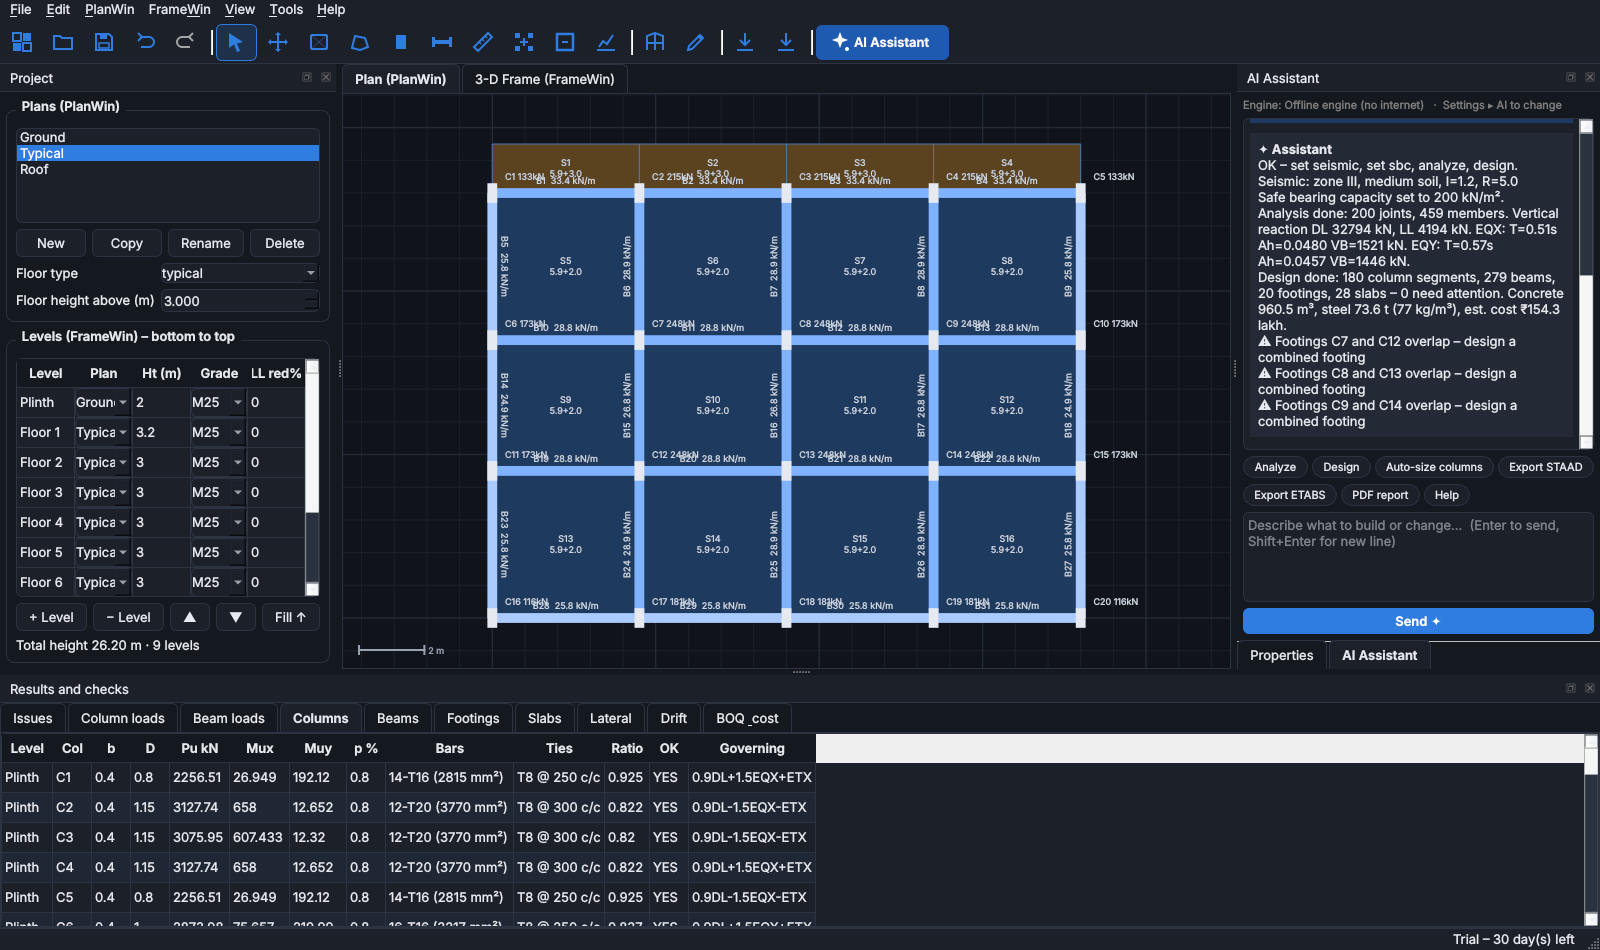
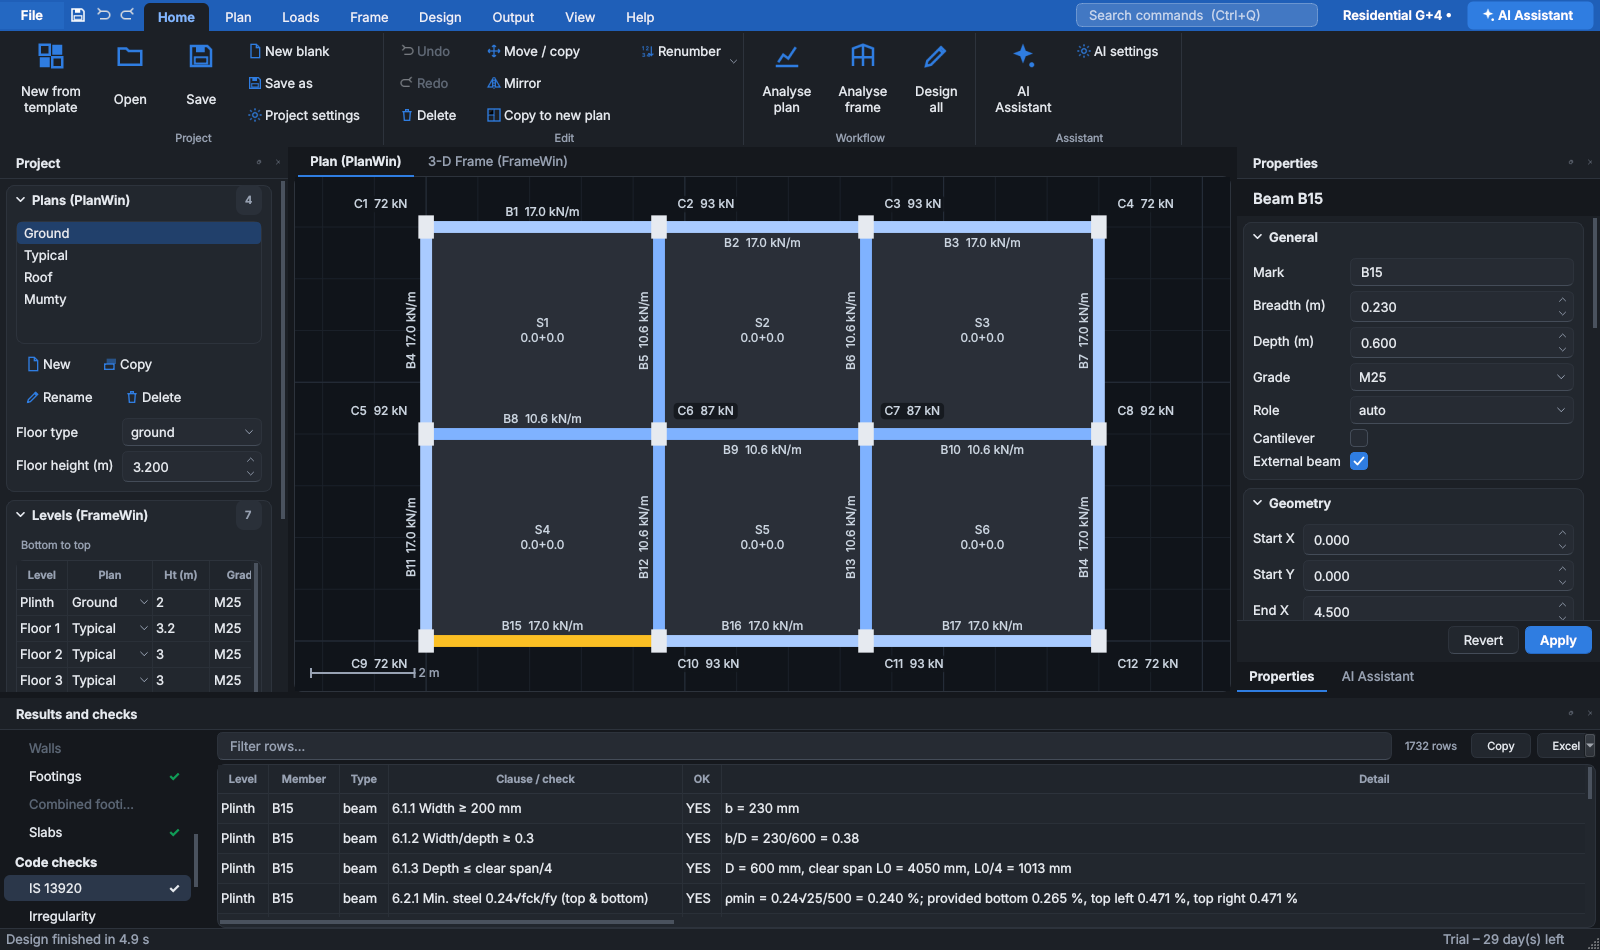
Release 1.2.0: Fluent interface, start page, command search, Excel BOQ and schedules
Also: tests delete the windows they leave behind (a later style-sheet change re-styled
every leftover window and could take minutes), and tools/screenshots.py regenerates the
README screenshots.

Claude-Session: https://claude.ai/code/session_01Mzv7HoQjApxqubjJVp7Nm8

diff --git a/tools/screenshots.py b/tools/screenshots.py
@@ -1,0 +1,79 @@
+"""Regenerate the README screenshots (assets/screenshots/*.png) from the real main window.
+
+    QT_QPA_PLATFORM=offscreen python tools/screenshots.py
+
+Uses a throw-away settings file, so the user's recent files and preferences are untouched.
+"""
+
+from __future__ import annotations
+
+import os
+import sys
+import tempfile
+
+ROOT = os.path.dirname(os.path.dirname(os.path.abspath(__file__)))
+sys.path.insert(0, ROOT)
+os.environ.setdefault("QT_QPA_PLATFORM", "offscreen")
+os.environ["PLANWIN_SETTINGS"] = os.path.join(tempfile.mkdtemp(prefix="pwai-shots-"), "settings.ini")
+OUT = os.path.join(ROOT, "assets", "screenshots")
+SIZE = (1600, 950)
+
+
+def _settle(app, n: int = 4) -> None:
+    for _ in range(n):  # wrapped labels and docks need a few layout passes
+        app.processEvents()
+
+
+def main() -> int:
+    from PySide6.QtWidgets import QApplication, QMessageBox
+
+    app = QApplication.instance() or QApplication([])
+    for name in ("information", "warning", "critical"):
+        setattr(QMessageBox, name, staticmethod(lambda *a, **k: 0))
+    QMessageBox.question = staticmethod(lambda *a, **k: QMessageBox.No)
+    from planwin_ai.gui.main_window import MainWindow
+
+    os.makedirs(OUT, exist_ok=True)
+    w = MainWindow()
+    w.apply_theme("light")
+    w.resize(*SIZE)
+    w.show()
+    w.show_start()
+    _settle(app)
+    w.grab().save(os.path.join(OUT, "start_page.png"))
+
+    w.load_template("residential_g4")
+    w._run([{"action": "design"}], "Design", quiet=True)
+    w.show_plan_view()
+    w.chat.show()
+    w.chat.raise_()
+    w.show_result_tab("Columns")
+    w.ribbon.select("Plan")
+    _settle(app)
+    w.canvas.zoom_extents()
+    _settle(app)
+    w.grab().save(os.path.join(OUT, "plan_and_ai.png"))
+
+    w.show_3d_view()
+    w.view3d.mode.setCurrentText("Design utilisation")
+    w.ribbon.select("Design")
+    w.show_result_tab("IS 13920")
+    _settle(app)
+    w.grab().save(os.path.join(OUT, "frame_3d_design.png"))
+
+    w.apply_theme("dark")
+    w.show_plan_view()
+    w.props_dock.raise_()
+    p = w.current_plan()
+    w.canvas.select_ids([p.beams[0].id])
+    w.ribbon.select("Home")
+    _settle(app)
+    w.grab().save(os.path.join(OUT, "dark_theme.png"))
+    w.dirty = False
+    w.close()
+    print("screenshots written to", OUT)
+    return 0
+
+
+if __name__ == "__main__":
+    raise SystemExit(main())

diff --git a/tests/conftest.py b/tests/conftest.py
@@ -31,3 +31,24 @@ def _isolated_appdata(monkeypatch, tmp_path):
 def tmpdir_path():
     with tempfile.TemporaryDirectory() as d:
         yield d
+
+
+@pytest.fixture(autouse=True)
+def _delete_leftover_windows():
+    """Delete the top-level windows a GUI test leaves behind. Closed windows otherwise stay alive
+    for the whole session, and every later QApplication.setStyleSheet re-styles all of them."""
+    yield
+    if "PySide6.QtWidgets" not in sys.modules:
+        return
+    from PySide6.QtCore import QCoreApplication, QEvent
+    from PySide6.QtWidgets import QApplication
+
+    app = QApplication.instance()
+    if app is None:
+        return
+    for w in app.topLevelWidgets():
+        if getattr(w, "dirty", None) is not None:
+            w.dirty = False  # no "save changes?" on close
+        w.close()
+        w.deleteLater()
+    QCoreApplication.sendPostedEvents(None, QEvent.DeferredDelete)

diff --git a/tests/test_gui_results_v120.py b/tests/test_gui_results_v120.py
@@ -134,7 +134,7 @@ def test_badges_count_failures_and_issues(app, designed):
     rp = ResultsPanel(FakeMain(p, fm, fa, bad))
     rp.refresh()
     item = rp._items["Columns"]
-    assert item.text(1) == "✖ 2" and item.foreground(1).color().name().upper() == "#DC2626"
+    assert item.text(1) == "✖ 2" and item.foreground(1).color().name().upper() == theme.BADGE["error"].upper()
     beams = rp._items["Beams"]
     assert all(b.ok for b in rep.beams) and beams.text(1) == "✓"
     n = rp.tables["Issues"].rowCount()

diff --git a/planwin_ai/__init__.py b/planwin_ai/__init__.py
@@ -6,6 +6,6 @@ Versioning follows Semantic Versioning: MAJOR.MINOR.PATCH.
 
 __all__ = ["__version__", "APP_NAME", "COMPANY"]
 
-__version__ = "1.1.0"
+__version__ = "1.2.0"
 APP_NAME = "PlanWin AI Pro"
 COMPANY = "Computer Help"

diff --git a/README.md b/README.md
@@ -5,6 +5,7 @@ This is the Python successor to Computer Help's PlanWin / FrameWin (VB6). It kee
 slab → beam → column load take-down, level-wise plans and FrameWin stacking. On top of that it adds a built-in 3-D solver,
 IS 456 design, STAAD/ETABS export and an AI assistant that builds and edits models from plain-English prompts.
 
+![Start page with AI prompt, recent projects and templates](assets/screenshots/start_page.png)
 ![Plan editor with AI assistant](assets/screenshots/plan_and_ai.png)
 ![3-D frame coloured by design utilisation](assets/screenshots/frame_3d_design.png)
 
@@ -26,8 +27,10 @@ The exe is not code-signed yet, so Windows SmartScreen may warn on first run (*M
 
 ## Quick start
 
-1. **File ▸ New from template** (10 ready buildings, all pre-optimised and passing design), or press **Ctrl+K** and type, for example:
-   *"G+4 residential in Pune, 3x2 bays of 4.5 m with mumty and 1.2 m balcony"*.
+1. The **start page** opens on launch: pick one of the 10 templates (all pre-optimised and passing design), a recent
+   project, or type a description into the AI box, for example
+   *"G+4 residential in Pune, 3x2 bays of 4.5 m with mumty and 1.2 m balcony"*. Lost? Press **Ctrl+Q** and type
+   what you want to do.
 2. **Plan tab:** draw slabs (`R` rectangle, `P` polygon), place columns (`C` or *Auto columns*) and shear walls (`W`),
    then use *Auto beams*. *Grid lines* adds grids (or generates them from the columns).
    Press **F5** to run the load take-down. Applied load must equal the column reactions (≈ 0 % difference).
@@ -38,11 +41,12 @@ The exe is not code-signed yet, so Windows SmartScreen may warn on first run (*M
 5. **F6** builds and analyses the 3-D frame. **F7** designs all members. **Design ▸ Optimise sizes** fixes any
    failures automatically. Check **IS 13920**, **Irregularity** and **Modal / RS** in the results panel.
 6. **Output tab:** **STAAD (.std)**, **ETABS (.e2k)**, **DXF 2-D/3-D**, **Excel**, **PDF**, **calculation sheets**,
-   **bar bending schedule** and **reinforcement detail drawings**. *Design ▸ Revisions* saves and compares BOQs.
+   **bar bending schedule**, **BOQ & cost estimate (Excel)**, **member schedules (Excel)** and **reinforcement detail
+   drawings**. *Design ▸ Revisions* saves and compares BOQs. Every results table has *Copy* and *Excel* buttons.
 
 Shortcuts: `S` select · `H` pan · `R` rectangle slab · `P` polygon slab · `C` column · `B` beam · `W` shear wall ·
 `D` measure · `A` area · `Shift+D` dimension · `F8` ortho · `F` zoom extents · `Del` delete · `Ctrl+Z / Y` undo/redo ·
-`F5 / F6 / F7` analyse plan / frame / design · `Ctrl+K` AI panel · `F1` help.
+`F5 / F6 / F7` analyse plan / frame / design · `Ctrl+K` AI panel · `Ctrl+Q` command search · `F1` help.
 Double-click a beam to see its BM/SF diagrams; double-click a ribbon tab to collapse the ribbon.
 View ▸ Units switches the display between kN and tonnes.
 
@@ -111,6 +115,15 @@ View ▸ Units switches the display between kN and tonnes.
 54. **Ribbon interface** and **kN / tonnes display units**
 55. Tamper-resistant trial and optional machine-bound licences
 
+### New in 1.2
+56. **Modern Fluent interface** (light and dark), with hover help on every command and field
+57. **Start page:** create with AI, recent projects, template gallery with plan thumbnails
+58. **Command search** (Ctrl+Q) for every command, results table and plan
+59. **Results navigator** grouped by Plan / Analysis / Design / Code checks / Quantities, with failure badges, filter, Copy and Excel export
+60. **Collapsible, scrolling Project and Properties panels**
+61. **BOQ & cost estimate (Excel)** with editable rates and live formulas, and **member schedules (Excel)** for columns, beams, footings, slabs and walls
+62. Plan labels placed without overlaps
+
 ---
 
 ## AI assistant
@@ -145,7 +158,7 @@ PlanWinAIPro.exe cli import-plw OLD.plw --out converted.pwai
 ```bash
 python -m venv .venv && .venv\Scripts\activate          # Python 3.12, 64-bit
 pip install -r requirements-dev.txt
-python -m pytest -q                                      # 343 tests
+python -m pytest -q                                      # 420 tests
 python -m planwin_ai                                     # run the app
 scripts\build_windows.bat                                # exe + portable + installer (needs Inno Setup 6)
 ```
@@ -156,6 +169,7 @@ GitHub Actions tests, builds, self-tests and publishes the release (the manual r
 Versioning follows **Semantic Versioning** (MAJOR.MINOR.PATCH).
 
 After changing the generator or design code, rebuild the template library with `python tools/build_templates.py`.
+After interface changes, refresh the README screenshots with `python tools/screenshots.py`.
 
 ## Project structure
 
@@ -167,17 +181,18 @@ planwin_ai/
   design/    is456/ (beam, column, footing, slab, wall) · is13920.py · runner.py (design all) · sizing.py
              (autosize, optimise) · quantities.py (BOQ, revisions) · wizards.py (stairs, tanks) · report.py
   io/        project_io (.pwai) · legacy_plw · staad · etabs · dxf_io · excel_report · pdf_report · calc_sheets
-             bbs · detail_dxf · cities
+             bbs · detail_dxf · boq_excel · schedules · cities
   services/  exports.py (one registry of every export, used by GUI, AI and CLI)
   ai/        actions (schema + executor) · offline parser · providers (Claude/OpenAI/Ollama) · assistant · templates
-  gui/       main_window · ribbon · ribbon_layout · commands/ (file, plan, frame, app) · canvas (plan editor)
-             view3d · panels · chat (AI dock) · dialogs/ · theme
+  gui/       main_window · ribbon · ribbon_layout · commands/ (file, plan, frame, app) · start_page
+             command_search · canvas (plan editor) · view3d · panels · results_panel · widgets · chat (AI dock)
+             dialogs/ · theme (Fluent style sheets, palettes, icons)
   licensing/ license.py (Ed25519 verify, tamper-resistant trial, machine codes)
   units.py   display units (kN / tonnes)
   data/      cities.csv · legacy_samples/*.plw · templates/*.pwai
 tools/       keygen.py (issue licences – internal) · build_templates.py
 packaging/   PyInstaller spec · Inno Setup script · version info
-tests/       343 tests: closed-form solver/dynamics checks, IS-code values, legacy import, exports, AI, licensing, GUI
+tests/       420 tests: closed-form solver/dynamics checks, IS-code values, legacy import, exports, AI, licensing, GUI
 ```
 
 ## Licensing (Computer Help internal)

diff --git a/CHANGELOG.md b/CHANGELOG.md
@@ -2,6 +2,44 @@
 
 All notable changes to this project are documented here. Versions follow [Semantic Versioning](https://semver.org/).
 
+## [1.2.0] – 2026-10-09
+Interface release: a cleaner, modern look and two new Excel exports. Projects and results are
+unchanged from 1.1.0.
+
+### Added
+- **Start page** on launch: describe a building to create it with AI, blank / open / import,
+  recent projects, and the template gallery with a plan thumbnail of each building.
+  (View ▸ Start page brings it back; "Show this page at startup" turns it off.)
+- **Command search** (Ctrl+Q) on the title bar: type what you want to do ("stair", "export staad",
+  "drift") and press Enter – finds every ribbon command, results table and plan.
+- **BOQ & cost estimate (Excel):** standard BOQ layout (item, description, unit, quantity, rate,
+  amount) with live formulas – edit a rate on the *Rates* sheet and every amount and total updates.
+  Also by floor, by member type and revision comparison.
+- **Member schedules (Excel):** column schedule (by storey range) and column list, beam schedule
+  (identical beams grouped), footing schedule (types F1, F2 …), combined footings, slab and wall schedules.
+- **Results navigator:** results grouped as Plan / Analysis / Design / Code checks / Quantities with
+  failure badges (✖ n) and ticks, a filter box, *Copy* (paste into Excel) and *Excel* (this table or
+  all tables) buttons.
+- One-line **hover help** on every ribbon command, panel field, table and button.
+
+### Changed
+- **Modern Fluent look** in light and dark: layered surfaces, rounded cards, thin scrollbars,
+  consistent buttons, inputs, tables, menus and tooltips; ribbon toggles show as soft pills.
+- **Project and Properties panels** are scrolling, collapsible sections (open/closed state is
+  remembered); the plan list and levels table show their full contents; Enter applies a property,
+  *Revert* discards edits.
+- **Plan labels no longer overlap:** column labels sit in the free corner on a small pill, beam
+  labels shorten or hide when there is no room, slab text only shows when it fits.
+- Ribbon: captions for the snap-step and units boxes; the Results panel opens at a quarter of the
+  window height so the plan stays the main view.
+- AI assistant and command line: "export boq", "cost estimate", "column schedule", "export schedules" …
+
+### Fixed
+- Properties panel showed a large black box on Windows (system dark palette leaking through).
+- Plan names were cut off in the levels table ("Typica", "Mumty"), and the plan list showed two rows.
+- Results tabs overflowed behind scroll arrows.
+- Menus could show black corners on Windows.
+
 ## [1.1.0] – 2026-10-08
 Feature release. Projects saved by 1.0.x open unchanged: they keep the equivalent static method
 and no diaphragm until you switch them on (Frame ▸ Seismic), so their results do not move.
